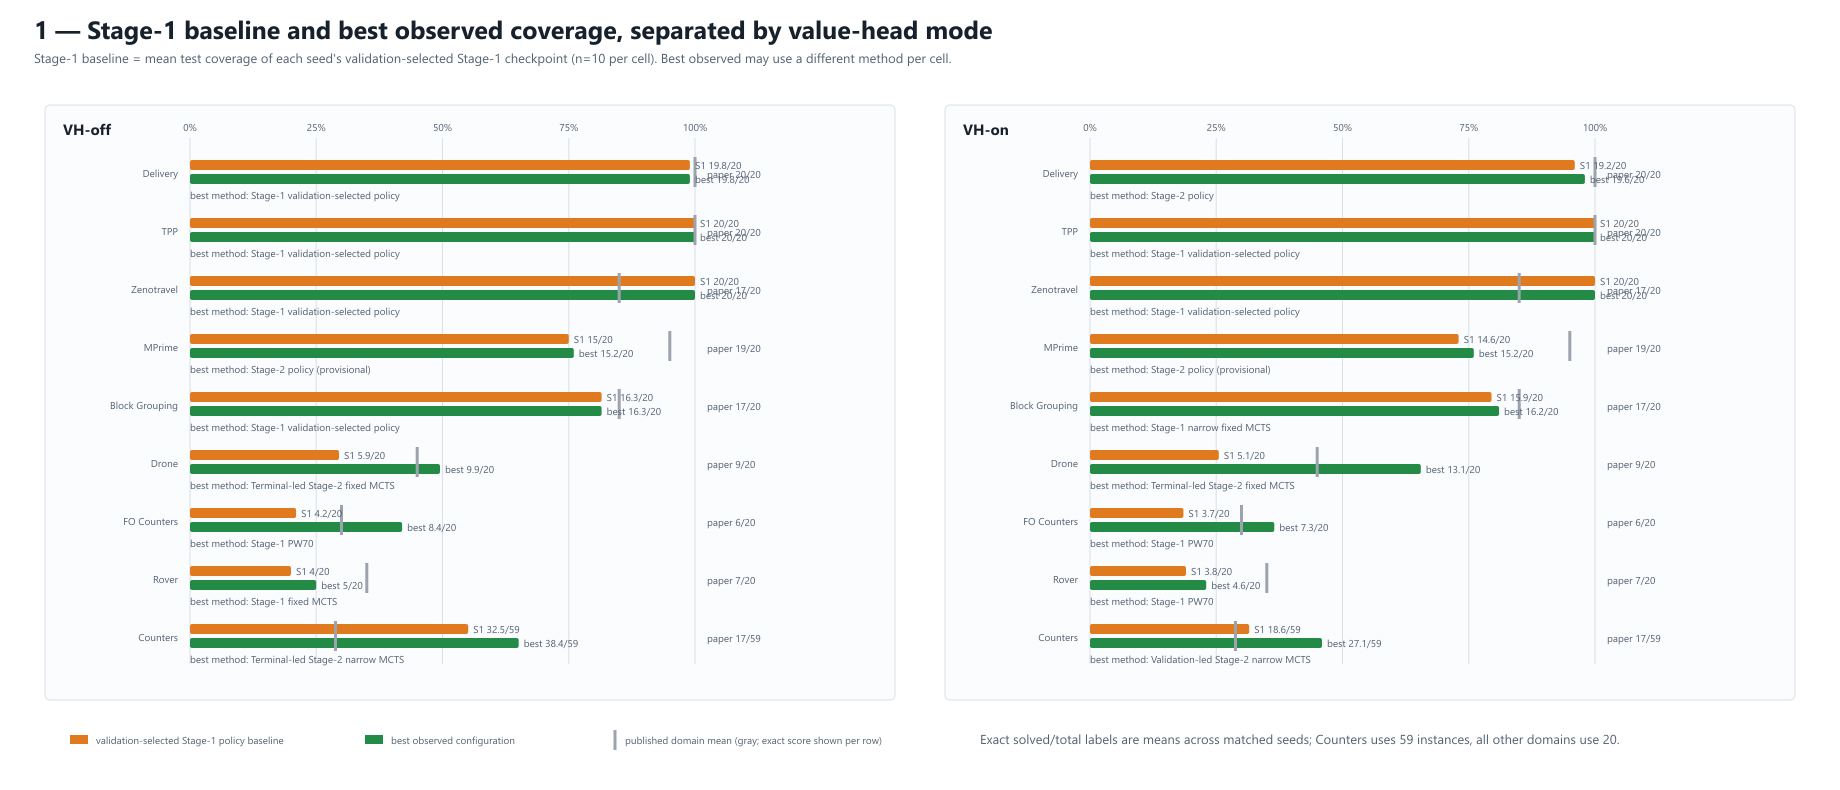
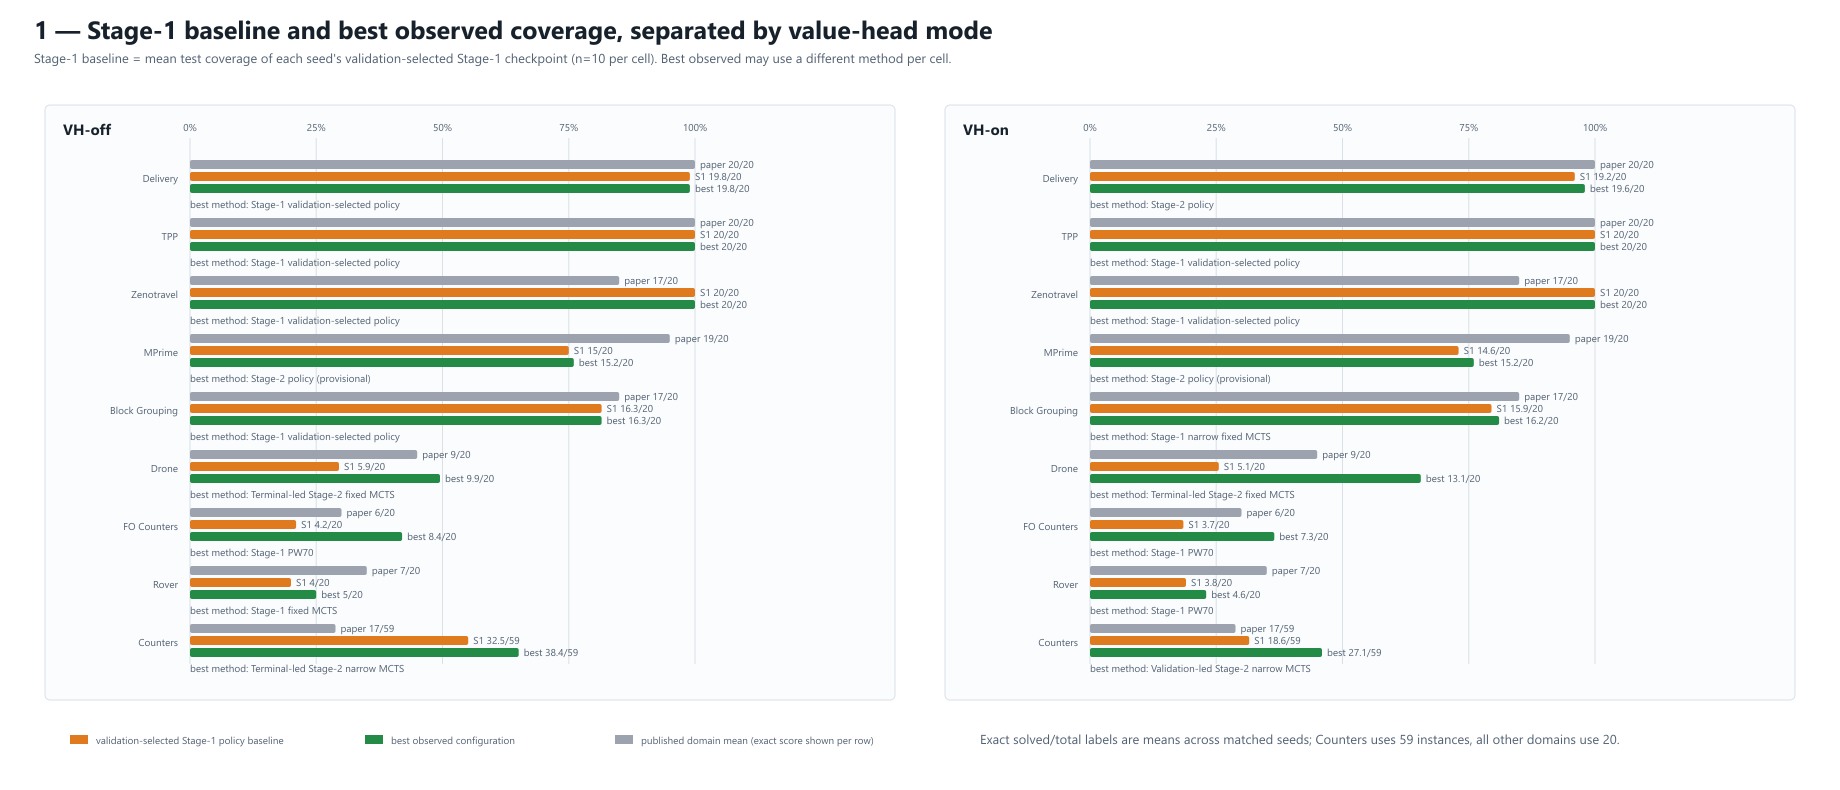
docs: restore horizontal paper score bars

diff --git a/scripts/build_advisor_meeting_plots_after_review_20260910.py b/scripts/build_advisor_meeting_plots_after_review_20260910.py
@@ -97,21 +97,20 @@ for panel, value_head in enumerate(("off", "on")):
         best = float(row["best_observed"])
         published = float(row["paper_reported"])
         to_percent = lambda score: score / total * 100
-        paper_x = x0 + to_percent(published) / 100 * (x1 - x0)
         parts += [
-            text(x0 - 12, y + 17, LABEL[row["domain"]], "small", "end"),
-            rect(x0, y, (x1 - x0) * to_percent(baseline) / 100, 10, ORANGE, radius=2),
-            rect(x0, y + 14, (x1 - x0) * to_percent(best) / 100, 10, GREEN, radius=2),
-            line(paper_x, y - 3, paper_x, y + 27, "#9ca3af", 3.0),
-            text(x0 + (x1 - x0) * to_percent(baseline) / 100 + 5, y + 9, f"S1 {baseline:g}/{total}", "small"),
-            text(x0 + (x1 - x0) * to_percent(best) / 100 + 5, y + 23, f"best {best:g}/{total}", "small"),
-            text(x0, y + 39, f"best method: {row['best_configuration']}", "small"),
-            text(x1 + 12, y + 18, f"paper {published:g}/{total}", "small"),
+            text(x0 - 12, y + 22, LABEL[row["domain"]], "small", "end"),
+            rect(x0, y, (x1 - x0) * to_percent(published) / 100, 9, "#9ca3af", radius=2),
+            rect(x0, y + 12, (x1 - x0) * to_percent(baseline) / 100, 9, ORANGE, radius=2),
+            rect(x0, y + 24, (x1 - x0) * to_percent(best) / 100, 9, GREEN, radius=2),
+            text(x0 + (x1 - x0) * to_percent(published) / 100 + 5, y + 8, f"paper {published:g}/{total}", "small"),
+            text(x0 + (x1 - x0) * to_percent(baseline) / 100 + 5, y + 20, f"S1 {baseline:g}/{total}", "small"),
+            text(x0 + (x1 - x0) * to_percent(best) / 100 + 5, y + 32, f"best {best:g}/{total}", "small"),
+            text(x0, y + 48, f"best method: {row['best_configuration']}", "small"),
         ]
 parts += [
     rect(70, 735, 18, 9, ORANGE), text(96, 744, "validation-selected Stage-1 policy baseline", "small"),
     rect(365, 735, 18, 9, GREEN), text(391, 744, "best observed configuration", "small"),
-    line(615, 730, 615, 750, "#9ca3af", 3.0), text(625, 744, "published domain mean (gray; exact score shown per row)", "small"),
+    rect(615, 735, 18, 9, "#9ca3af"), text(641, 744, "published domain mean (exact score shown per row)", "small"),
     text(980, 744, "Exact solved/total labels are means across matched seeds; Counters uses 59 instances, all other domains use 20.", "sub"),
 ]
 save("01_domain_scorecard", parts)
